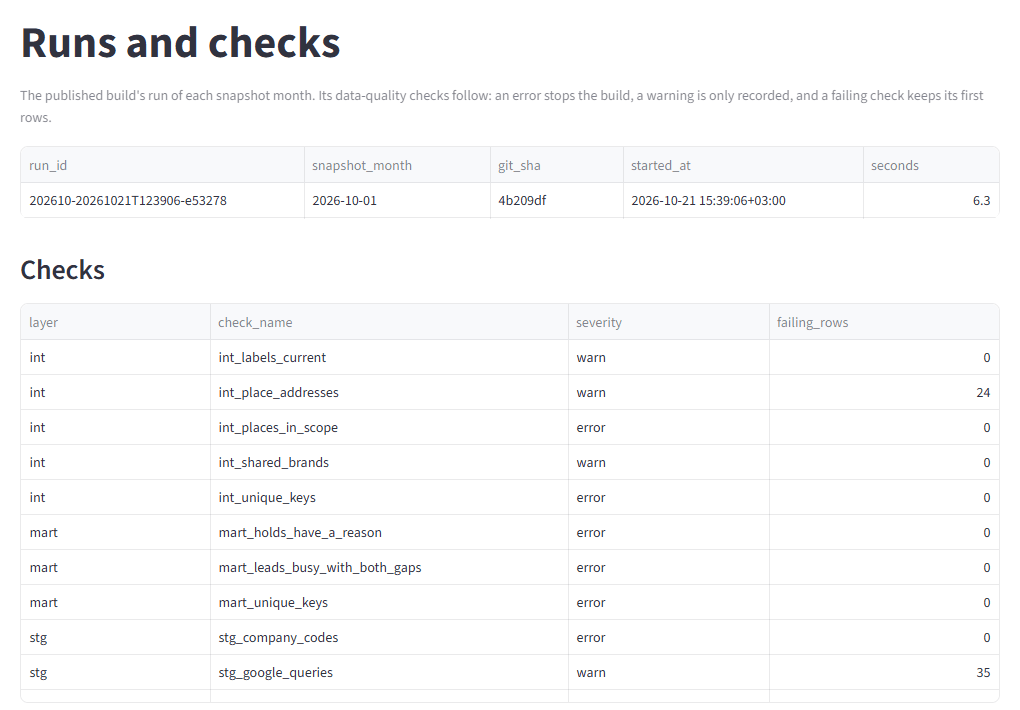
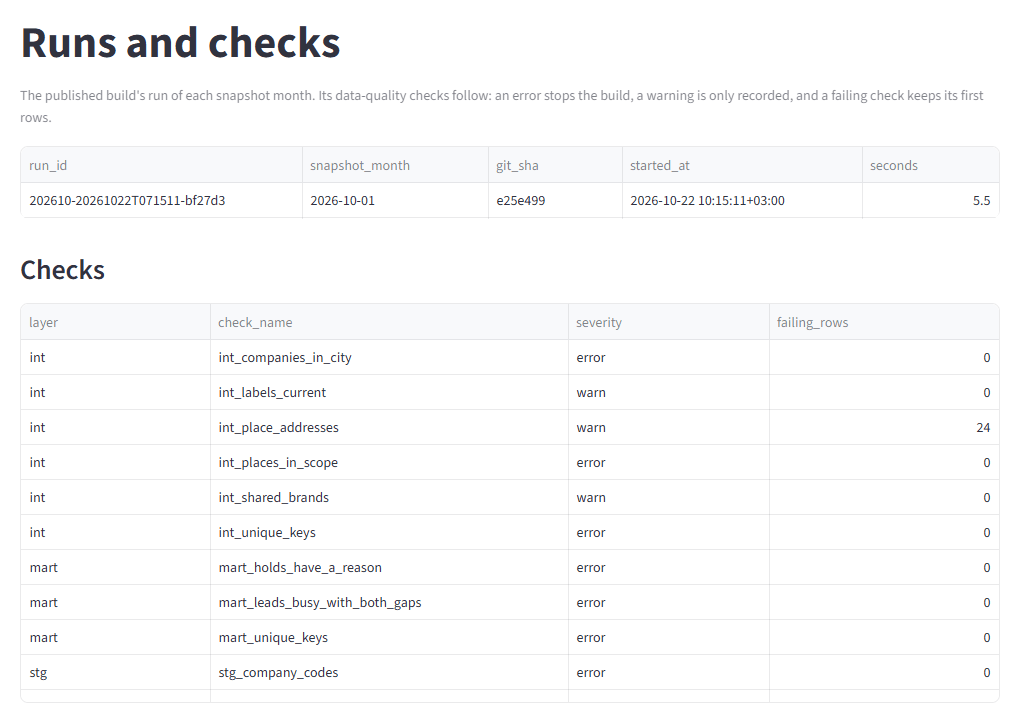
feat: stop the build when no company has a building in the city
- sql/dq/int_companies_in_city.sql, an error: the month's companies
  include some with a street in the city. Building
  keys are read only from addresses that start with the city's name,
  so a change in the register's address format would leave rules 1, 3
  and 5 silent and only the brand and activity rule linking, with no
  check to say so
- README: the int checks and October's count, 16 checks of which 12
  block a build; the Runs and checks picture retaken to show the check
- Tests: the check passes on the fixture month and stops the build
  when only another month's companies have keys; each of 3 mutations
  fails a test

diff --git a/tests/test_int.py b/tests/test_int.py
@@ -191,6 +191,7 @@ def test_a_place_found_under_two_categories_takes_the_one_that_allows_it(stg_run
 def test_int_checks_pass_on_the_fixture_month(stg_run):
     stg_run.build_int()
     assert stg_run.run_checks("int") == {
+        "int_companies_in_city": ("error", 0),
         "int_labels_current": ("warn", 0),
         "int_place_addresses": ("warn", 0),
         "int_places_in_scope": ("error", 0),
@@ -213,6 +214,13 @@ def test_a_place_in_scope_without_a_house_number_is_reported(stg_run, place, rep
         ("INSERT INTO int.companies SELECT * FROM int.companies LIMIT 1", "int_unique_keys"),
         ("INSERT INTO int.places SELECT * FROM int.places LIMIT 1", "int_unique_keys"),
         ("UPDATE int.places SET scope = 'other_activity'", "int_places_in_scope"),
+        (  # last month's companies keep their keys, this month's have none
+            "INSERT INTO int.companies SELECT * REPLACE "
+            "((snapshot_month - INTERVAL 1 MONTH)::DATE AS snapshot_month) FROM int.companies; "
+            "UPDATE int.companies SET street_key = NULL "
+            "WHERE snapshot_month = getvariable('snapshot_month')",
+            "int_companies_in_city",
+        ),
     ],
 )
 def test_int_checks_stop_the_build(stg_run, breakage, check):

diff --git a/README.md b/README.md
@@ -208,8 +208,8 @@ A place is `in_scope` inside the city's bounds with a Google category of the cat
 it, else `outside_city` (a search by eldership also finds Kaunas' Verkiai) or `other_activity` (a
 café search also finds restaurants, and places that show no Google category). In October, 516
 of 745 places are in scope: 162 cafés and bakeries, 191 car repair shops and 163 dental clinics.
-The checks stop the build when a key repeats or no place is in scope, and report places in scope
-without a street or house number.
+The checks stop the build when a key repeats, no place is in scope or no company has a street in
+the city, and report places in scope without a street or house number.
 
 </details>
 
@@ -412,7 +412,7 @@ The cost of flagging an honest business shapes each step:
 - **Both figures, and peers.** A lead needs a staff gap and a tax gap against at least 5 similar
   companies; one gap only puts a company on watch. 8 companies are held, with the reason shown,
   rather than judged on missing data.
-- **Data-quality checks** run after every layer: 15 in October's build. The 11 that block a build
+- **Data-quality checks** run after every layer: 16 in October's build. The 12 that block a build
   all pass; of the 4 warnings, two report rows: 35 results lists that came back empty (7) or full
   (28, so they may have left places out), and 24 places in scope without a street or house number.
 - **Sensitivity:** both leads stay leads at a gap of a half or a third with any minimum of reviews.
